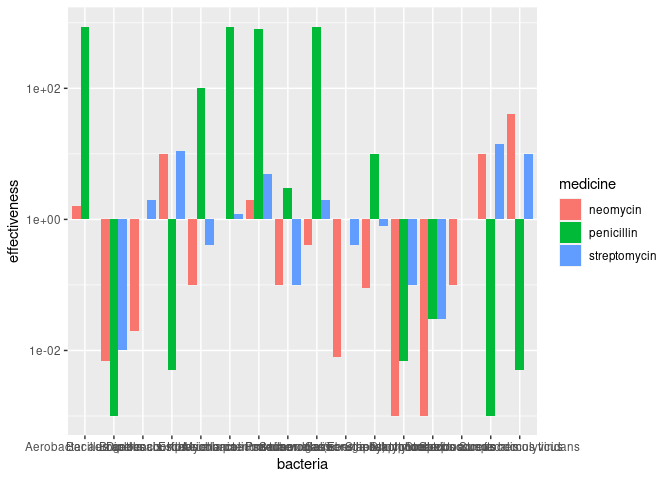
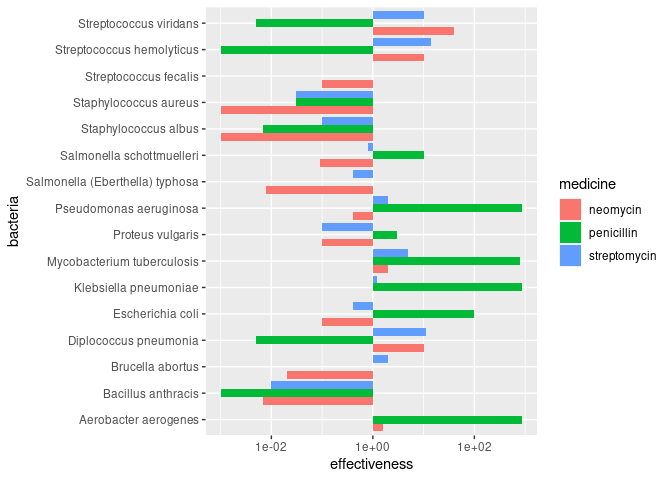
c05 revision

Changed region(s): [[0.0, 0.0, 0.875, 1.0], [0.0312, 0.7188, 0.0938, 0.75]]

diff --git a/challenges/c05-antibiotics-assignment.md b/challenges/c05-antibiotics-assignment.md
@@ -209,14 +209,16 @@ piv_anti
 
 ``` r
 piv_anti %>%
-  ggplot(aes(x = bacteria , y = effectiveness, color = gram, shape = medicine ))+
-  geom_point() + 
-  scale_y_log10()
+  ggplot(aes(x =effectiveness , y =bacteria, color = gram, shape = medicine ))+
+  geom_point(alpha = 0.5) + 
+  scale_x_log10() +
+  theme_minimal()
 ```
 
 ![](c05-antibiotics-assignment_files/figure-gfm/q1.2-1.png)<!-- -->
 
 ``` r
+  # theme(axis.text.x = element_text(angle = 45, hjust = 1))
 # WRITE YOUR CODE HERE
 ```
 
@@ -236,9 +238,9 @@ df_antibiotics %>%
     values_to = "effectiveness",
     cols = c(neomycin, penicillin, streptomycin)
   ) %>%
-  ggplot(aes(fill = medicine, x = bacteria, y = effectiveness)) + 
+  ggplot(aes(fill = medicine, x = effectiveness, y = bacteria)) + 
   geom_col(position = "dodge") + 
-  scale_y_log10()
+  scale_x_log10()
 ```
 
 ![](c05-antibiotics-assignment_files/figure-gfm/q1.3-1.png)<!-- -->
@@ -263,9 +265,9 @@ df_antibiotics %>%
     values_to = "effectiveness",
     cols = c(neomycin, penicillin, streptomycin)
   ) %>%
-  ggplot(aes(x = bacteria, y = effectiveness)) + 
+  ggplot(aes(x = effectiveness, y = bacteria)) + 
   geom_boxplot() + 
-  scale_y_log10()
+  scale_x_log10()
 ```
 
 ![](c05-antibiotics-assignment_files/figure-gfm/q1.4-1.png)<!-- -->
@@ -285,9 +287,11 @@ your other visuals.
 
 ``` r
 piv_anti %>%
-  ggplot(aes(fill = bacteria, x = medicine, y = effectiveness)) + 
-  geom_col(position = "dodge") + 
-  scale_y_log10()
+  group_by(medicine, gram) %>%
+  summarize(count = n(), .groups = "drop") %>%
+  ggplot(aes (x = medicine, y = count, fill = gram))+
+  geom_bar(stat = "identity", position = "dodge") +
+  theme_minimal()
 ```
 
 ![](c05-antibiotics-assignment_files/figure-gfm/q1.5-1.png)<!-- -->
@@ -317,23 +321,23 @@ opportunity to think about why this is.**
 
 *Observations* - What is your response to the question above? -
 
-Neomycin is most effective in treating Diplococcus pneumonia and
-streptococcus hemolyticus and viridans; it also shows effectiveness in
-treating positive gram bacteria.
+Neomycin is least effective in treating Diplococcus pneumonia and
+streptococcus hemolyticus and viridans; it also shows most effectiveness
+in treating negative gram bacteria.
 
-Penicillin is most effective in treating bacteria not of the
-streptococcus, bacillus, and diplococcus genera and generally shows
-better effectiveness in treating negative gram bacteria.
+Penicillin is least effective in treating bacteria not of the
+streptococcus, bacillus, and diplococcus genera and generally shows the
+most effectiveness in treating positive gram bacteria.
 
-Streptomycin is most effective in treating bacteria of the streptococcus
-genera, as well as diplococcus pneumonia. It seems to succeed most
-effectively in positive gram bacteria.
+Streptomycin is least effective in treating bacteria of the
+streptococcus genera, as well as diplococcus pneumonia. It seems to work
+most effectively in negative gram bacteria.
 
 (Write your response here) - Which of your visuals above (1 through 5)
 is **most effective** at helping to answer this question? - (Write your
 response here) - Why? - (Write your response here)
 
-Visuals 1 and 5 were the ones I primarily relied on, because 5 displayed
+Visuals 1 and 3 were the ones I primarily relied on, because 3 displayed
 their treatment effectiveness based upon bacteria type and 1 was my best
 graph for comparing that to gram. However, as a whole, I would say my
 first visual is the weakest visual I produced – it’s really hard to tell
